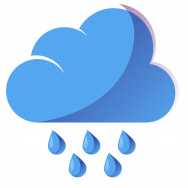
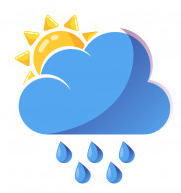
html improved

Changed region(s): [[0.0276, 0.0, 0.9669, 0.9574]]

diff --git a/src/main/resources/templates/fragments/menu.html b/src/main/resources/templates/fragments/menu.html
@@ -4,7 +4,7 @@
 
 
 <div th:fragment="menu">
-    <div class="navbar navbar-expand-lg fixed-top navbar-dark bg-gradient-primary">
+    <div class="navbar navbar-expand-lg fixed-top navbar-dark bg-gradient-success">
         <div class="container">
             <a class="navbar-brand">Weather Forecast by SkyCast</a>
             <button class="navbar-toggler" type="button" data-toggle="collapse" data-target="#navbarResponsive"
@@ -16,25 +16,23 @@
                 <ul class="navbar-nav">
                     <li class="nav-item">
                     </li>
-                    <li class="nav-item">
-
-                        <a class="nav-link" th:if="${email == null}" th:text="${'Login to get personalized results'}"
-                           th:href="@{'star/'}" href="https://www.linkedin.com/in/burjanova/">Login</a>
-
-                        <!--<a class="nav-link" th:href="@{'star/'}" href="https://www.linkedin.com/in/burjanova/">Login to
-                            get personalized results</a>-->
-
-                        <div class="nav-link" th:if="${email != null}" th:text="${email}">
-
-                        </div>
-
-
-                        <!--<a class="nav-link" href="https://www.linkedin.com/in/burjanova/">Login to get personalized results</a>-->
-                    </li>
                 </ul>
+
+                <form th:if="${authenticated == 'false'}" th:action="@{'star/'}" class="form-inline my-2 my-lg-0">
+                    <button type="submit" class="btn btn-warning">Login</button>
+                </form>
+
+                <form th:if="${authenticated == 'true'}" th:action="@{/logout}" method="post"
+                      class="form-inline my-2 my-lg-0">
+                    <input type="submit" value="Sign Out" class="btn btn-warning disabled"/>
+                </form>
+
             </div>
+
+
         </div>
     </div>
+</div>
 </div>
 
 

diff --git a/src/main/resources/templates/index.html b/src/main/resources/templates/index.html
@@ -20,8 +20,6 @@
 
 </head>
 
-<!--<body onload="loadData();">-->
-
 <div>
     <div th:insert="fragments/menu :: menu">menu</div>
     <div class="container">
@@ -44,7 +42,6 @@
                 </form>
 
                 <h3 class="display-4">Weather forecast for <span th:text="${nameOfPlace}">Amsterdam</span></h3>
-                <!--<h4 class="display-5">Weather forecast for <span th:text="${address}">Amsterdam, Noord Holland</span></h4>-->
 
                 <div>
                     <div th:each="day : ${iconDays}">
@@ -56,9 +53,9 @@
                         <col style="width:33%">
                         <col style="width:33%">
                         <theader style="line-height: 2.0rem">
-                            <td>Today</td>
-                            <td>Tomorrow</td>
-                            <td>Day after tomorrow</td>
+                            <td style="font-weight: bold">Today</td>
+                            <td style="font-weight: bold">Tomorrow</td>
+                            <td style="font-weight: bold">Day after tomorrow</td>
                         </theader>
                         <tr>
                             <td th:each="day : ${iconDays}" scope="col">
@@ -78,12 +75,10 @@
                 </div>
             </div>
 
-            <div id="chartGraph">
-            <svg class="line-chart"></svg>
-            </div>
 
-            <!--<canvas id="myChart" width="400" height="400">
-            </canvas>-->
+            <div id="chartGraph" style="padding-top: 30px">
+                <svg class="line-chart"></svg>
+            </div>
 
         </div>
         <footer class="paticka">

diff --git a/src/main/resources/static/js/app.js b/src/main/resources/static/js/app.js
@@ -5,16 +5,9 @@ document.addEventListener("DOMContentLoaded", function (event) {
 
     var array = [];
         for (let i = 0; i < temperatureObjectList.length; i++) {
-        var date_try = temperatureObjectList[i].day
-            console.log(date_try)
-        var date_new = new Date(date_try)
-        console.log(date_new)
-
+        var date_new = new Date(temperatureObjectList[i].day)
         var temp = Number(temperatureObjectList[i].temperature).valueOf()
-        console.log(temp)
         array.push({
-            //date: temperatureObjectList[i].day, value: +temperatureObjectList[i].temperature
-            //date: new Date(temperatureObjectList[i].day), value: +temperatureObjectList[i].temperature
             date: date_new, value: temp
         })
     }
@@ -27,10 +20,7 @@ function drawChart(data) {
     var chartDiv = document.getElementById("chartGraph");
 
     var svgWidth = chartDiv.clientWidth;
-    //var svgHeight = chartDiv.clientHeight;
     var svgHeight = 500;
-
-    //var svgWidth = 600, svgHeight = 400;
 
     var margin = {top: 20, right: 20, bottom: 30, left: 40};
     var width = svgWidth - margin.left - margin.right;
@@ -90,7 +80,6 @@ function drawChart(data) {
         .attr("stroke-linecap", "round")
         .attr("stroke-width", 2.5)
         .attr("d", line);
-
 
 }
 

diff --git a/src/main/resources/templates/star.html b/src/main/resources/templates/star.html
@@ -43,11 +43,6 @@
                     </div>
                 </form>
                 <br>
-                <form th:action="@{/logout}" method="post">
-                    <input type="submit" value="Sign Out" class="btn btn-danger"/>
-                </form>
-                <br>
-
 
                 <div th:each="item : ${listStarForecast}">
                     <h3 class="display-4">Weather forecast for <span th:text="${item.key}">Amsterdam</span></h3>
@@ -62,9 +57,9 @@
                             <col style="width:33%">
                             <col style="width:33%">
                             <theader style="line-height: 2.0rem">
-                                <td>Today</td>
-                                <td>Tomorrow</td>
-                                <td>Day after tomorrow</td>
+                                <td style="font-weight: bold">Today</td>
+                                <td style="font-weight: bold">Tomorrow</td>
+                                <td style="font-weight: bold">Day after tomorrow</td>
                             </theader>
                             <tr>
                                 <td th:each="day : ${item.value}" scope="col">

diff --git a/src/main/java/cz/burjanova/forecast/entity/Weather.java b/src/main/java/cz/burjanova/forecast/entity/Weather.java
@@ -50,22 +50,22 @@ public class Weather {
                 this.setConditionsIcon("Overcast.png");
                 break;
             case "Rain, Overcast":
-                this.setConditionsIcon("Rain.png");
+                this.setConditionsIcon("Rain_overcast.png");
                 break;
             case "Rain, Partially cloudy":
-                this.setConditionsIcon("Clear.png");
+                this.setConditionsIcon("Partially_cloudy.png");
                 break;
             case "Snow, Partially cloudy":
                 this.setConditionsIcon("Clear.png");
                 break;
             case "Snow, Overcast":
-                this.setConditionsIcon("Clear.png");
+                this.setConditionsIcon("Snow.png");
                 break;
             case "Snow":
-                this.setConditionsIcon("Clear.png");
+                this.setConditionsIcon("Snow.png");
                 break;
             case "Rain":
-                this.setConditionsIcon("Rain.png");
+                this.setConditionsIcon("Rain_overcast.png");
                 break;
         }
     }

diff --git a/src/main/java/cz/burjanova/forecast/controller/MainController.java b/src/main/java/cz/burjanova/forecast/controller/MainController.java
@@ -61,13 +61,17 @@ public class MainController {
         String subCode = oauth2User.getAttributes().get("sub").toString();
         String email = oauth2User.getAttributes().get("email").toString();
 
-        weatherService.saveNewFavouritePlace(newFavouritePlace, subCode, email);
+        ModelAndView dataHolder;
 
-        ModelAndView dataHolder = weatherService.makeStarPage("star", subCode, email);
+        if (newFavouritePlace.isEmpty()) {
+            dataHolder = weatherService.makeStarPage("star", subCode, email);
+            dataHolder.addObject("message", "You have not filled any place, try again");
+        } else {
+            weatherService.saveNewFavouritePlace(newFavouritePlace, subCode, email);
+            dataHolder = weatherService.makeStarPage("star", subCode, email);
+        }
         return dataHolder;
     }
-
-
 }
 
 

diff --git a/src/main/java/cz/burjanova/forecast/service/WeatherService.java b/src/main/java/cz/burjanova/forecast/service/WeatherService.java
@@ -66,6 +66,8 @@ public class WeatherService {
         dataHolder.addObject("nameOfPlace", forecast.getName());
         dataHolder.addObject("iconDays", getIconDays(forecast.getValues()));
         dataHolder.addObject("temperatureSerie", getTemperatureTimeSerie(place, forecast));
+        dataHolder.addObject("authenticated", "false");
+
         log.debug(getTemperatureTimeSerie(place, forecast));
         log.debug("size daily weather: " + forecast.getValues().size());
 
@@ -110,6 +112,8 @@ public class WeatherService {
 
         dataHolder.addObject("starLocationList", starLocationList);
         dataHolder.addObject("listStarForecast", listStarForecast);
+        dataHolder.addObject("authenticated", "true");
+
         return dataHolder;
     }
 
